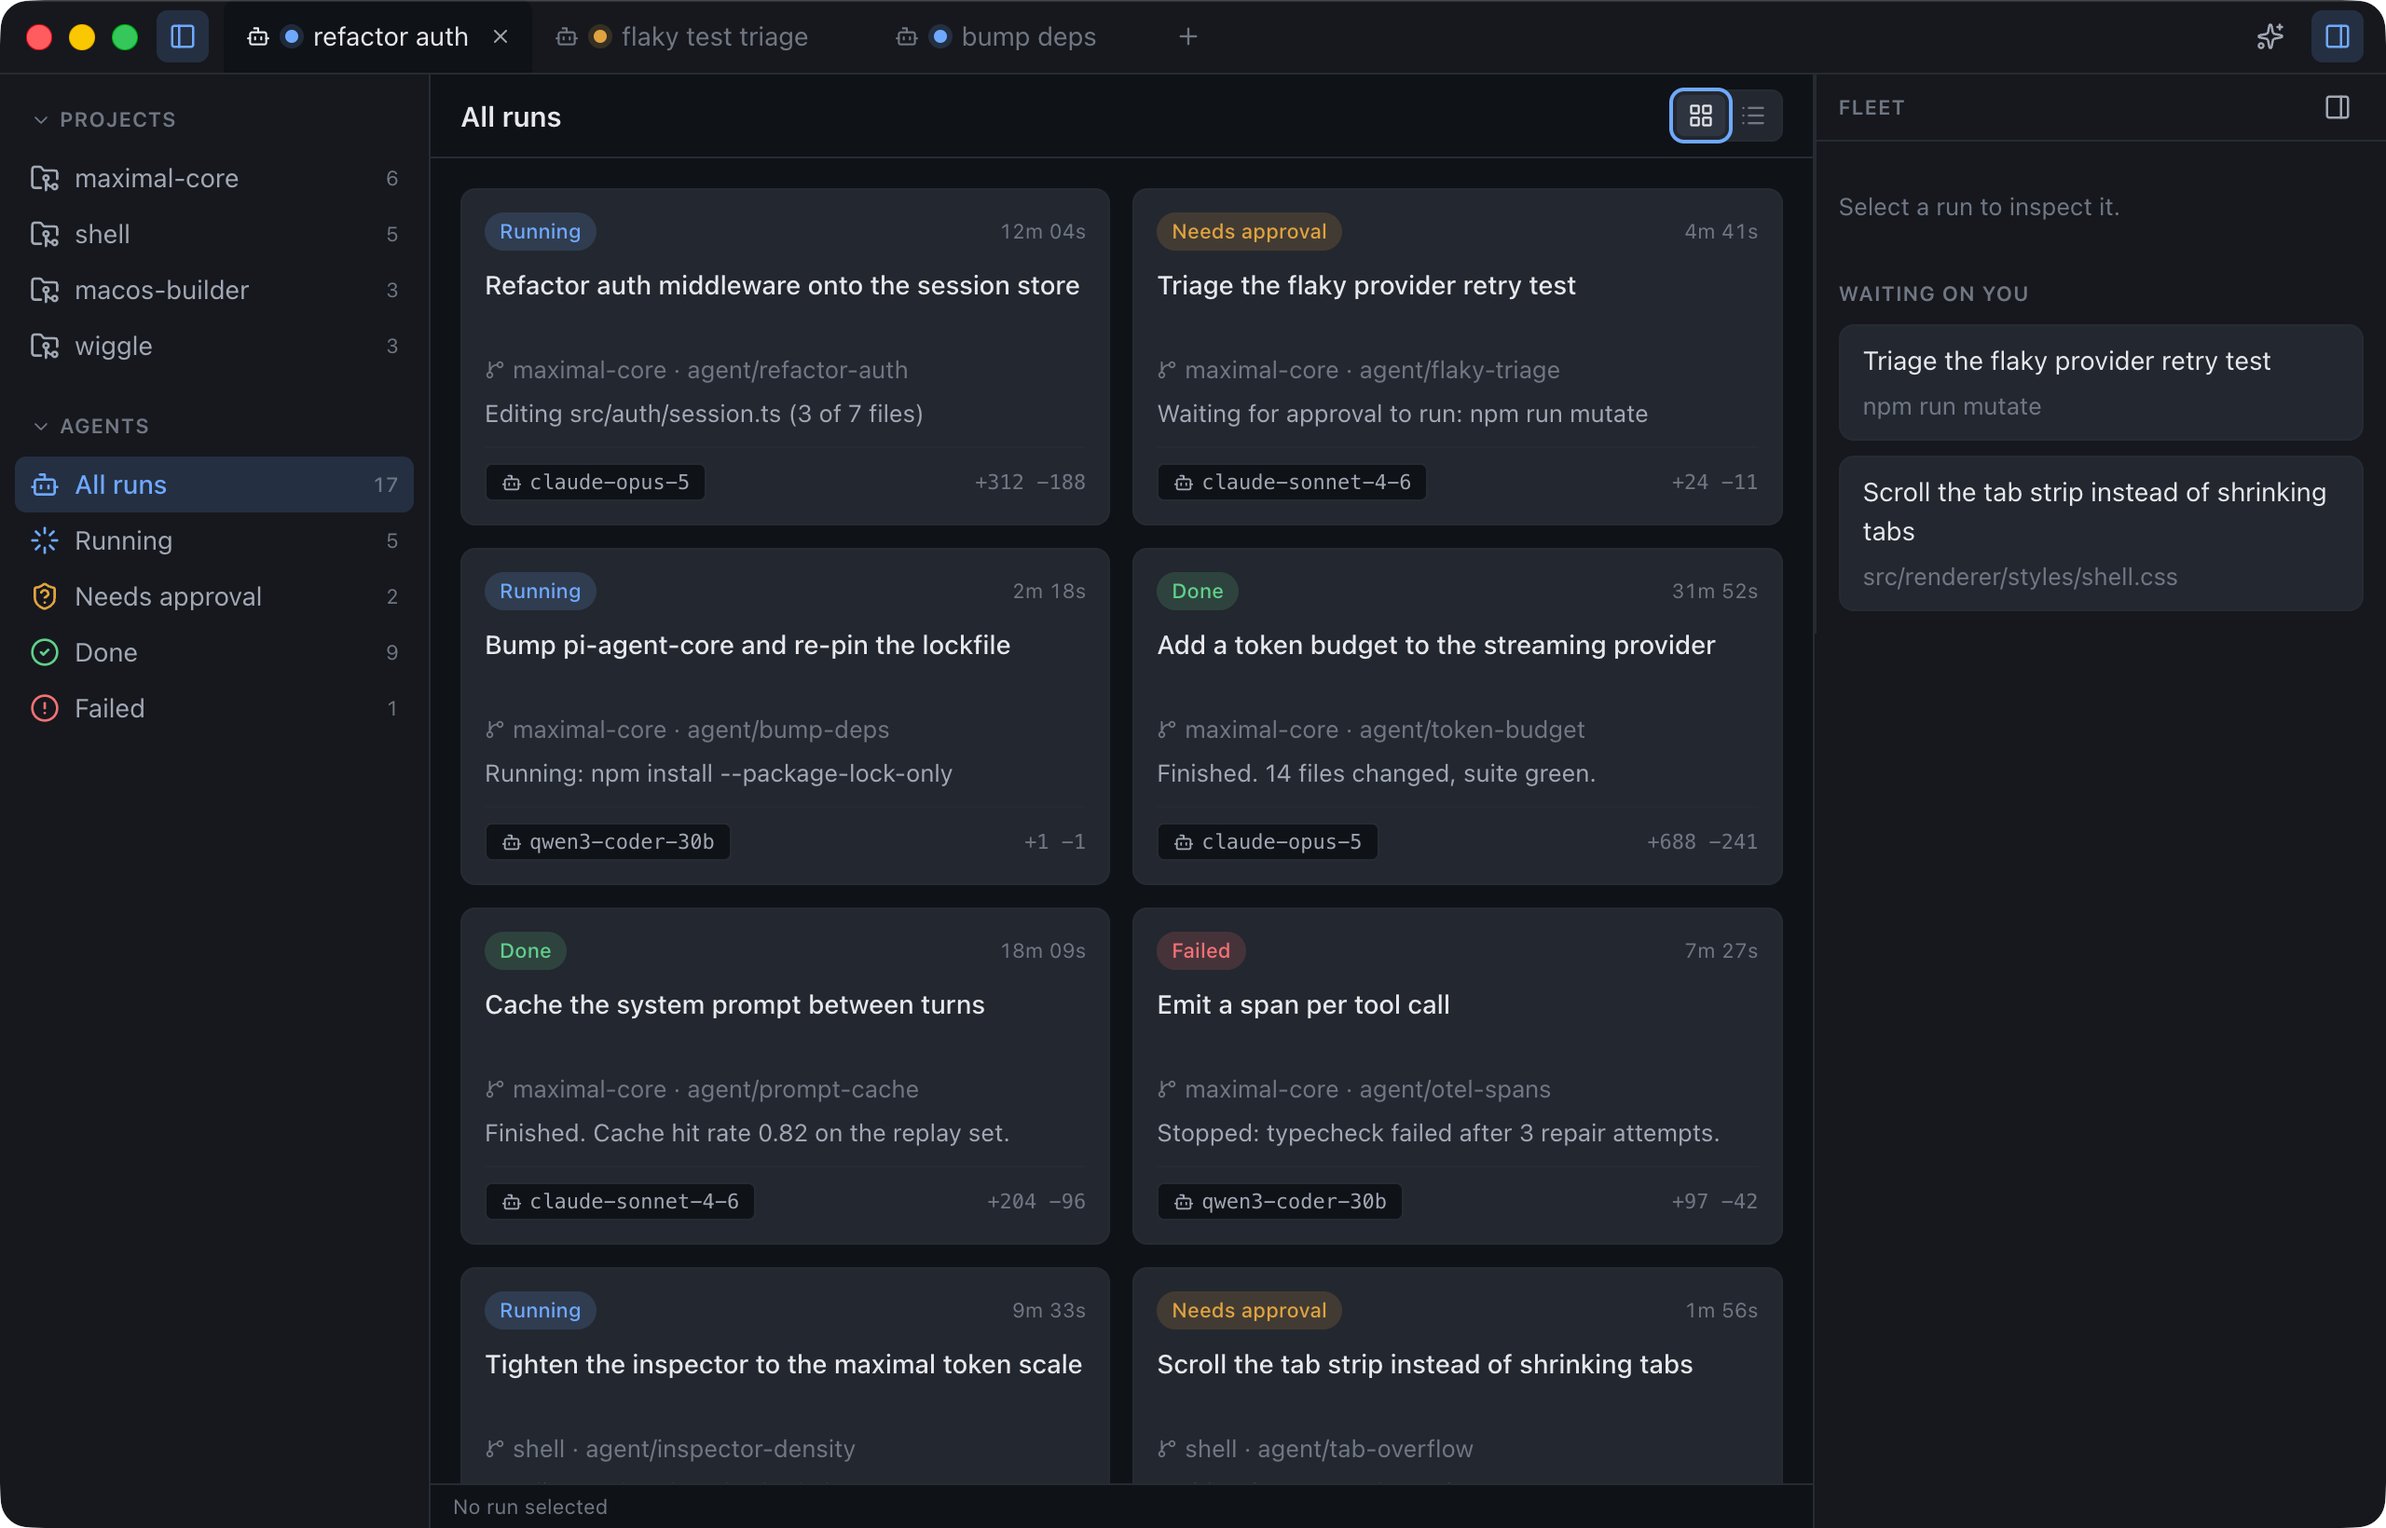
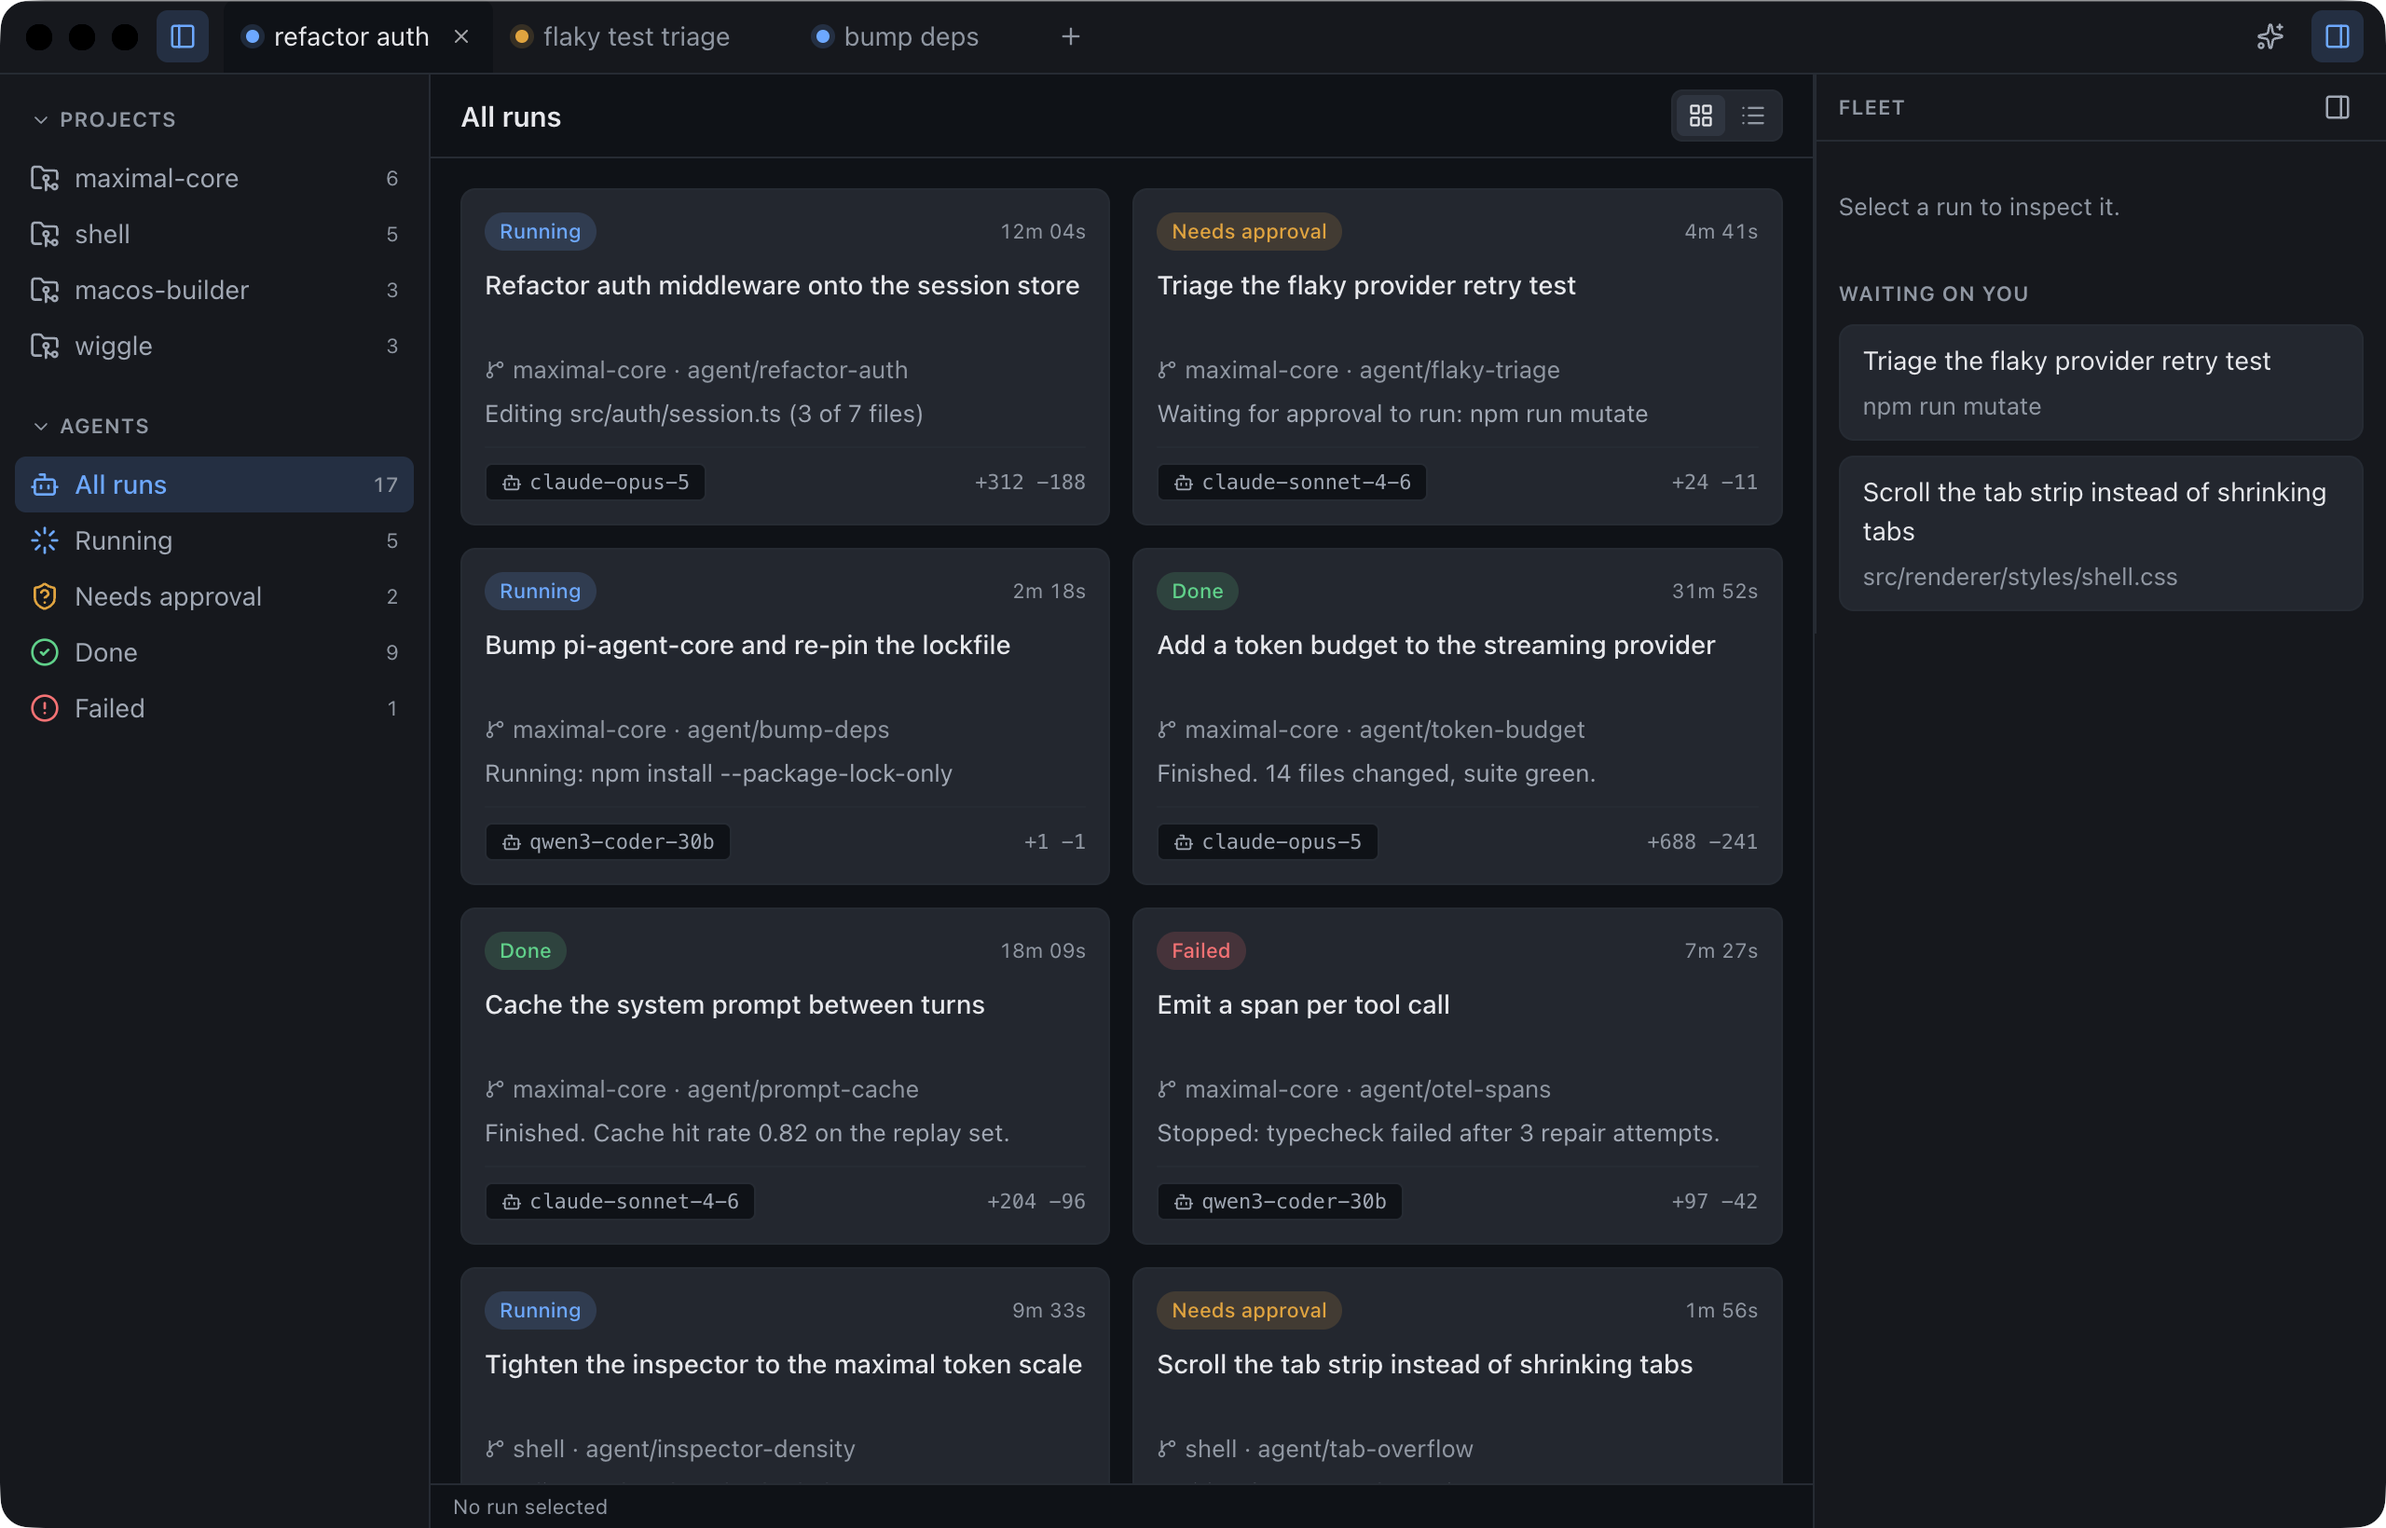
Make the default palette meet its own contrast rule
The checker existed and reported eleven failures across the two schemes. It
now reports none, because the palette changed rather than the threshold.

  --text-muted   dark  #6f7783 -> #8f97a2, light #838b97 -> #656d78
  --accent       light #2d6ff7 -> #2563eb  (4.44, a near miss both ways)
  --danger-fill  new

--danger was doing two jobs that pull opposite ways. It has to be light
enough to read as error text on a dark panel, and a white label on that same
light red is 2.81 against a requirement of 4.5. Splitting it is the fix: a
solid danger surface for buttons, and --danger for text. The overlay's error
text moves to --text-invalid, which already existed for exactly this.

The last two failures were --text-muted on the surface a selected row
actually sits on: --accent-soft composited over the background. The contract
cannot see that — a translucent token has no contrast of its own — so the
value is tuned against the composited colour and the limitation is written
down where someone will hit it. axe measures rendered pixels and does catch
those, which is why the two checks are not redundant.

Storybook's axe count went 118 to 1. What remains is aria-hidden-focus on the
story that deliberately leaves a menu open, which is Radix's behaviour rather
than the product's.

check:contrast now runs in CI, since the defaults hold.

The consumer-facing half is gone: no workflow_call workflow, no adoption
docs. Publishing a standard for a repository that has not asked for it yet
[…]

Changed region(s): [[0.0938, 0.0, 0.4688, 0.0311], [0.0, 0.0, 0.0625, 0.0311]]

diff --git a/src/renderer/lib/contrast.ts b/src/renderer/lib/contrast.ts
@@ -14,8 +14,14 @@
  * by whatever a consumer runs against theirs.
  *
  * WCAG 2.2 contrast, from the relative-luminance definition in the
- * specification. Only opaque colours: a token defined as `rgb(r g b / a)`
- * composites against whatever is behind it, which this cannot know.
+ * specification.
+ *
+ * Only opaque colours. A token defined as `rgb(r g b / a)` composites against
+ * whatever is behind it, which this cannot know, so the soft tints are outside
+ * the contract — including the surface a selected row or the current nav item
+ * actually sits on. Those are real surfaces text is drawn on, and this will
+ * never see them; `npm run storybook:check` runs axe over rendered pixels and
+ * does. The two checks are not redundant.
  */
 
 /** The ratio normal text must reach. Large text may use `AA_LARGE`. */
@@ -54,7 +60,7 @@ export const CONTRAST_PAIRS: ContrastPair[] = [
   { foreground: '--text-muted', background: '--bg-canvas', where: 'empty state', minimum: AA_NORMAL },
   { foreground: '--accent', background: '--bg-app', where: 'current nav item', minimum: AA_NORMAL },
   { foreground: '--accent-contrast', background: '--accent', where: 'primary button label', minimum: AA_NORMAL },
-  { foreground: '--text-on-solid', background: '--danger', where: 'danger button label', minimum: AA_NORMAL },
+  { foreground: '--text-on-solid', background: '--danger-fill', where: 'danger button label', minimum: AA_NORMAL },
   { foreground: '--text-invalid', background: '--bg-app', where: 'field error', minimum: AA_NORMAL },
   { foreground: '--text-muted', background: '--bg-panel', where: 'menu item, overlay hint', minimum: AA_NORMAL },
 ];
@@ -91,6 +97,7 @@ export const REQUIRED_TOKENS: string[] = [
   '--control-md',
   '--control-sm',
   '--danger',
+  '--danger-fill',
   '--danger-soft',
   '--duration-fast',
   '--ease-out',

diff --git a/src/renderer/styles/tokens.css b/src/renderer/styles/tokens.css
@@ -109,11 +109,20 @@
   --border-strong: #363d48;
   --text-primary: #e6e8ec;
   --text-secondary: #a0a8b4;
-  --text-muted: #6f7783;
+  --text-muted: #8f97a2;
   --accent: #6ea8fe;
   --accent-contrast: #0d1117;
   --accent-soft: rgb(110 168 254 / 0.16);
   --danger: #f47174;
+  /*
+   * A solid danger surface, distinct from the colour danger *text* uses.
+   *
+   * One token could not do both. `--danger` has to be light enough to read as
+   * error text on a dark panel, and a white label on that same light red is
+   * 2.81 against a requirement of 4.5. The two roles pull opposite ways, so
+   * they are two tokens.
+   */
+  --danger-fill: #b83143;
   --success: #5fd08a;
   /* Blocking, but not an error. The overlay's approval prompt is the only
      current user, and it is deliberately not the same red as a failure. */
@@ -164,11 +173,12 @@
   --border-strong: #ccd2da;
   --text-primary: #12141a;
   --text-secondary: #545c68;
-  --text-muted: #838b97;
-  --accent: #2d6ff7;
+  --text-muted: #656d78;
+  --accent: #2563eb;
   --accent-contrast: #ffffff;
-  --accent-soft: rgb(45 111 247 / 0.1);
+  --accent-soft: rgb(37 99 235 / 0.1);
   --danger: #d3373b;
+  --danger-fill: #c0272b;
   --success: #17864a;
   --warning: #a9691b;
   --success-soft: rgb(23 134 74 / 0.12);

diff --git a/src/renderer/styles/controls.css b/src/renderer/styles/controls.css
@@ -160,12 +160,12 @@ button {
 }
 
 .btn--danger {
-  background: var(--danger);
-  border-color: var(--danger);
+  background: var(--danger-fill);
+  border-color: var(--danger-fill);
   color: var(--text-on-solid);
 }
 .btn--danger:hover:not(:disabled) {
-  background: var(--danger);
+  background: var(--danger-fill);
   filter: brightness(1.08);
 }
 

diff --git a/src/renderer/styles/shell.css b/src/renderer/styles/shell.css
@@ -93,7 +93,7 @@ body {
 }
 
 .icon-button--danger:hover {
-  background: var(--danger);
+  background: var(--danger-fill);
   color: var(--text-on-solid);
 }
 

diff --git a/src/renderer/styles/overlay.css b/src/renderer/styles/overlay.css
@@ -104,7 +104,7 @@ body,
 .card__error {
   display: block;
   margin-top: var(--space-2);
-  color: var(--danger);
+  color: var(--text-invalid);
 }
 
 /*

diff --git a/docs/architecture.md b/docs/architecture.md
@@ -135,48 +135,16 @@ application rather than a menu-bar utility.
 
 Components reference semantic names only. No component contains a hex value.
 
-### The contract, and who it binds
+### Contrast
 
-The values are a default. A consumer supplies their own palette, so what the
-shell publishes is not the colours but the standard:
+`src/renderer/lib/contrast.ts` records which token is drawn on which surface,
+and therefore which pairs must be legible, plus every token the stylesheets
+read. `npm run check:contrast` measures the palette against it, and CI runs it.
 
-- **`REQUIRED_TOKENS`** — every token the stylesheets read. A palette that omits
-  one leaves a rule resolving to nothing, which renders as a transparent
-  background rather than as an error.
-- **`CONTRAST_PAIRS`** — which token is drawn on which surface, and therefore
-  which pairs must be legible. That is a claim about the shell's own markup, so
-  it holds whoever supplies the colours.
-
-Both are in `src/renderer/lib/contrast.ts`, which ships and is mutation-tested.
-`npm run check:contrast` measures a palette against them.
-
-A consumer runs the same check on their own palette by referencing the
-workflow rather than copying the script:
-
-```yaml
-jobs:
-  design:
-    uses: stuffbucket/maximal-electron/.github/workflows/design-standards.yml@main
-    with:
-      tokens: shell/src/ui/styles/tokens.css
-```
-
-`selectors` sets which blocks are read, in cascade order, and defaults to
-`:root,:root[data-theme='light']`. `report-only` prints without failing, which
-is how adoption is staged.
-
-The check reports three things separately, because they need three different
-fixes: a token that is not defined, a token defined in a form it cannot read —
-`oklch()`, `color-mix()`, anything but `#rgb` or `#rrggbb` — and a pair that
-reads fine and does not contrast. An unreadable pair is never counted as a
-pass; an earlier version dropped them, so a palette written in `oklch()`
-produced an empty result and read as success.
-
-This repository runs that workflow against its own palette, which is what makes
-the default a tested claim rather than an assertion. It currently reports
-rather than fails: eleven pairs across the two schemes do not meet the
-contract, and fixing them changes the read of the whole shell. See
-[issue #28](https://github.com/stuffbucket/maximal-electron/issues/28).
+Three failures are reported separately, because they need different fixes: a
+token that is not defined, a token defined in a form the check cannot read —
+anything but `#rgb` or `#rrggbb` — and a pair that reads fine and does not
+contrast. An unreadable pair is never counted as a pass.
 
 ## Native integration
 
